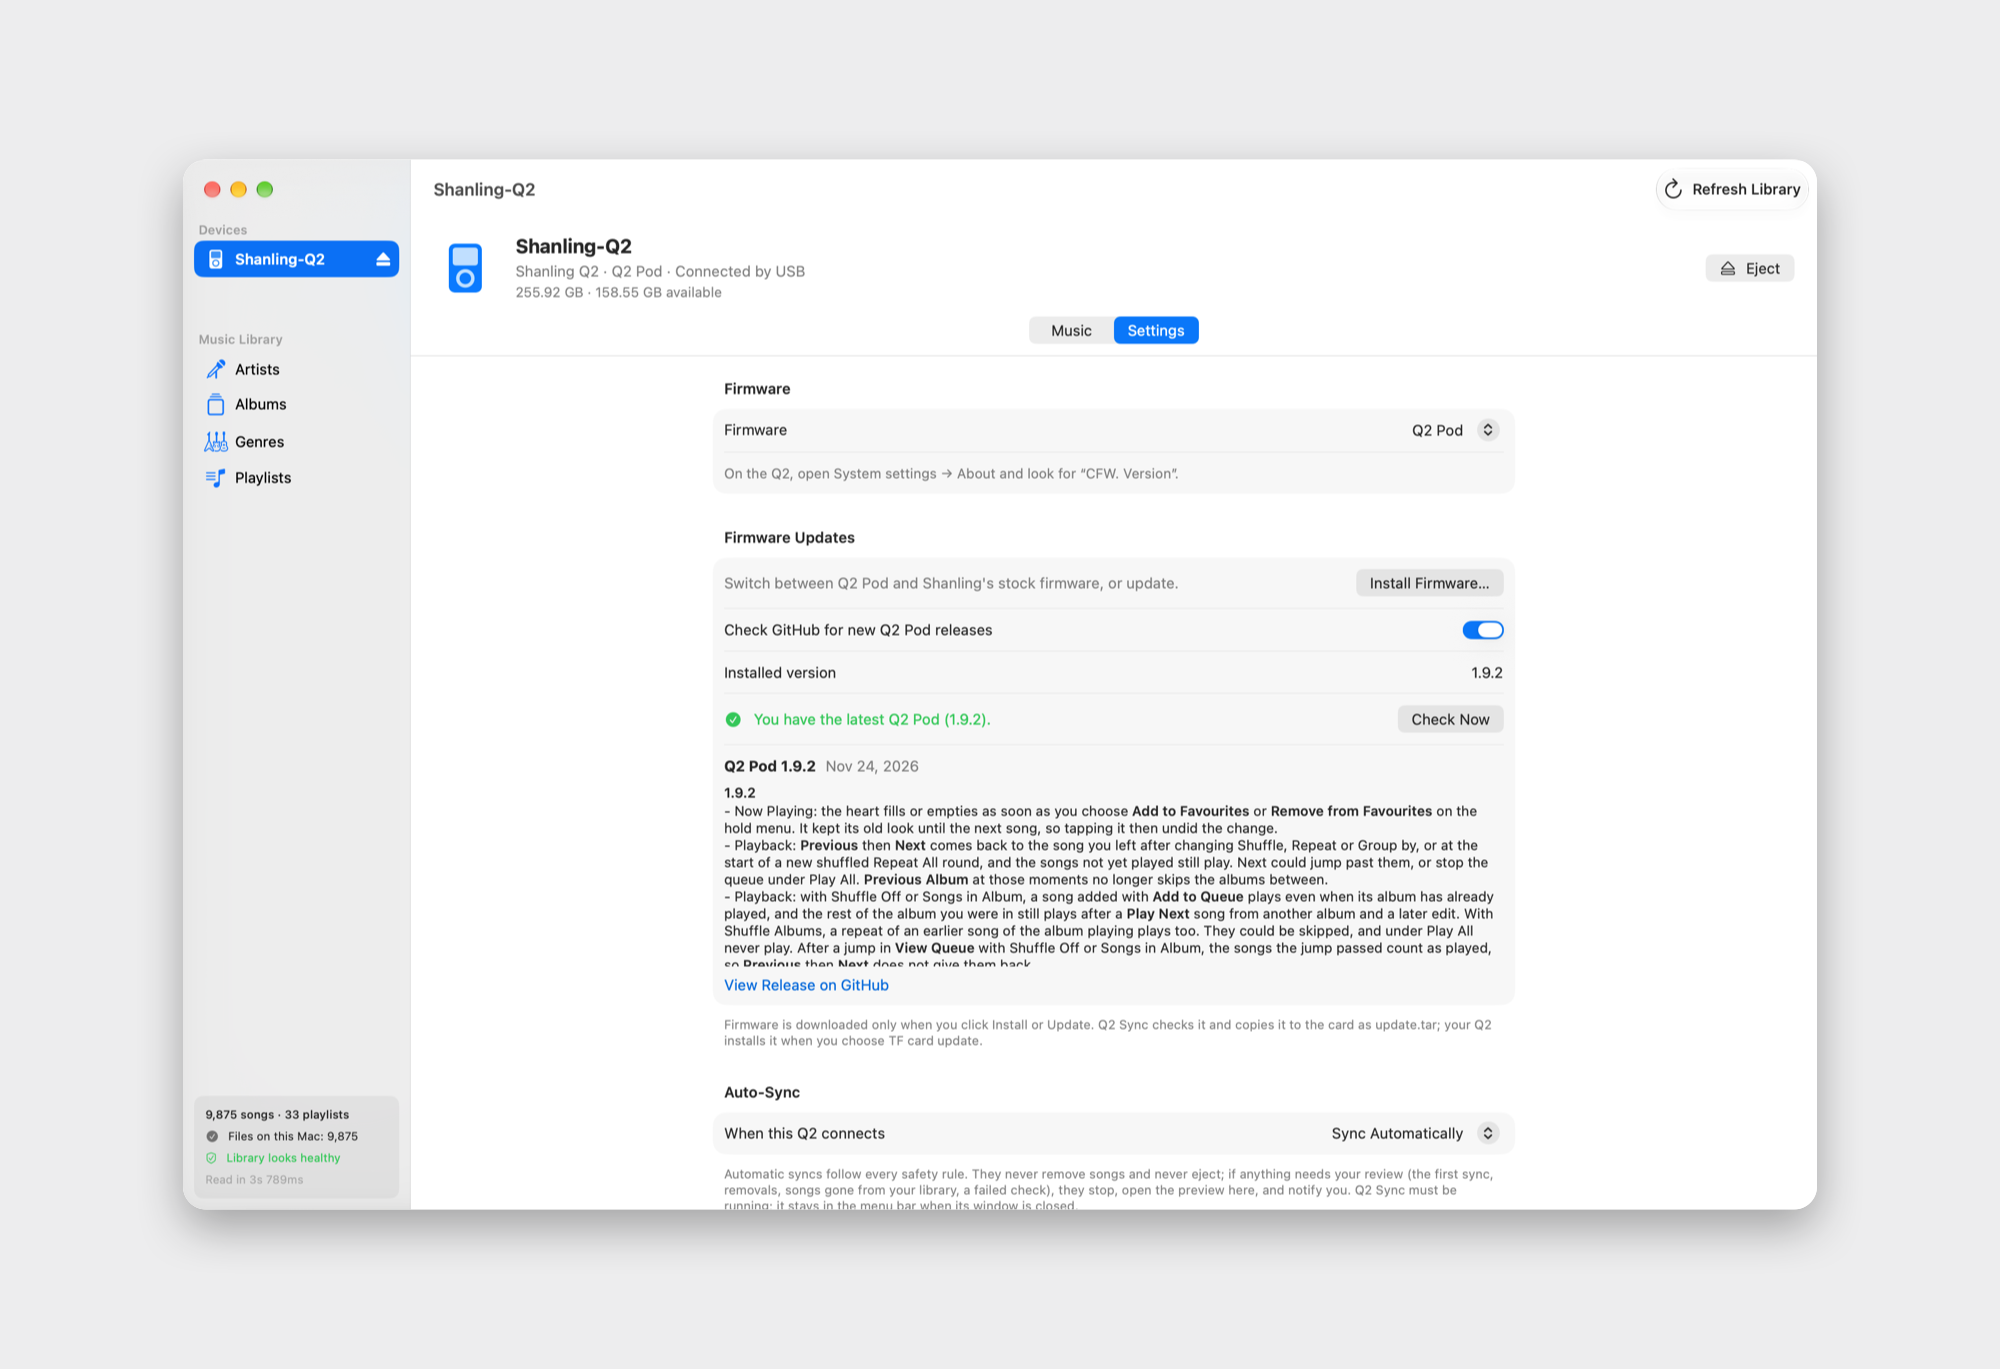
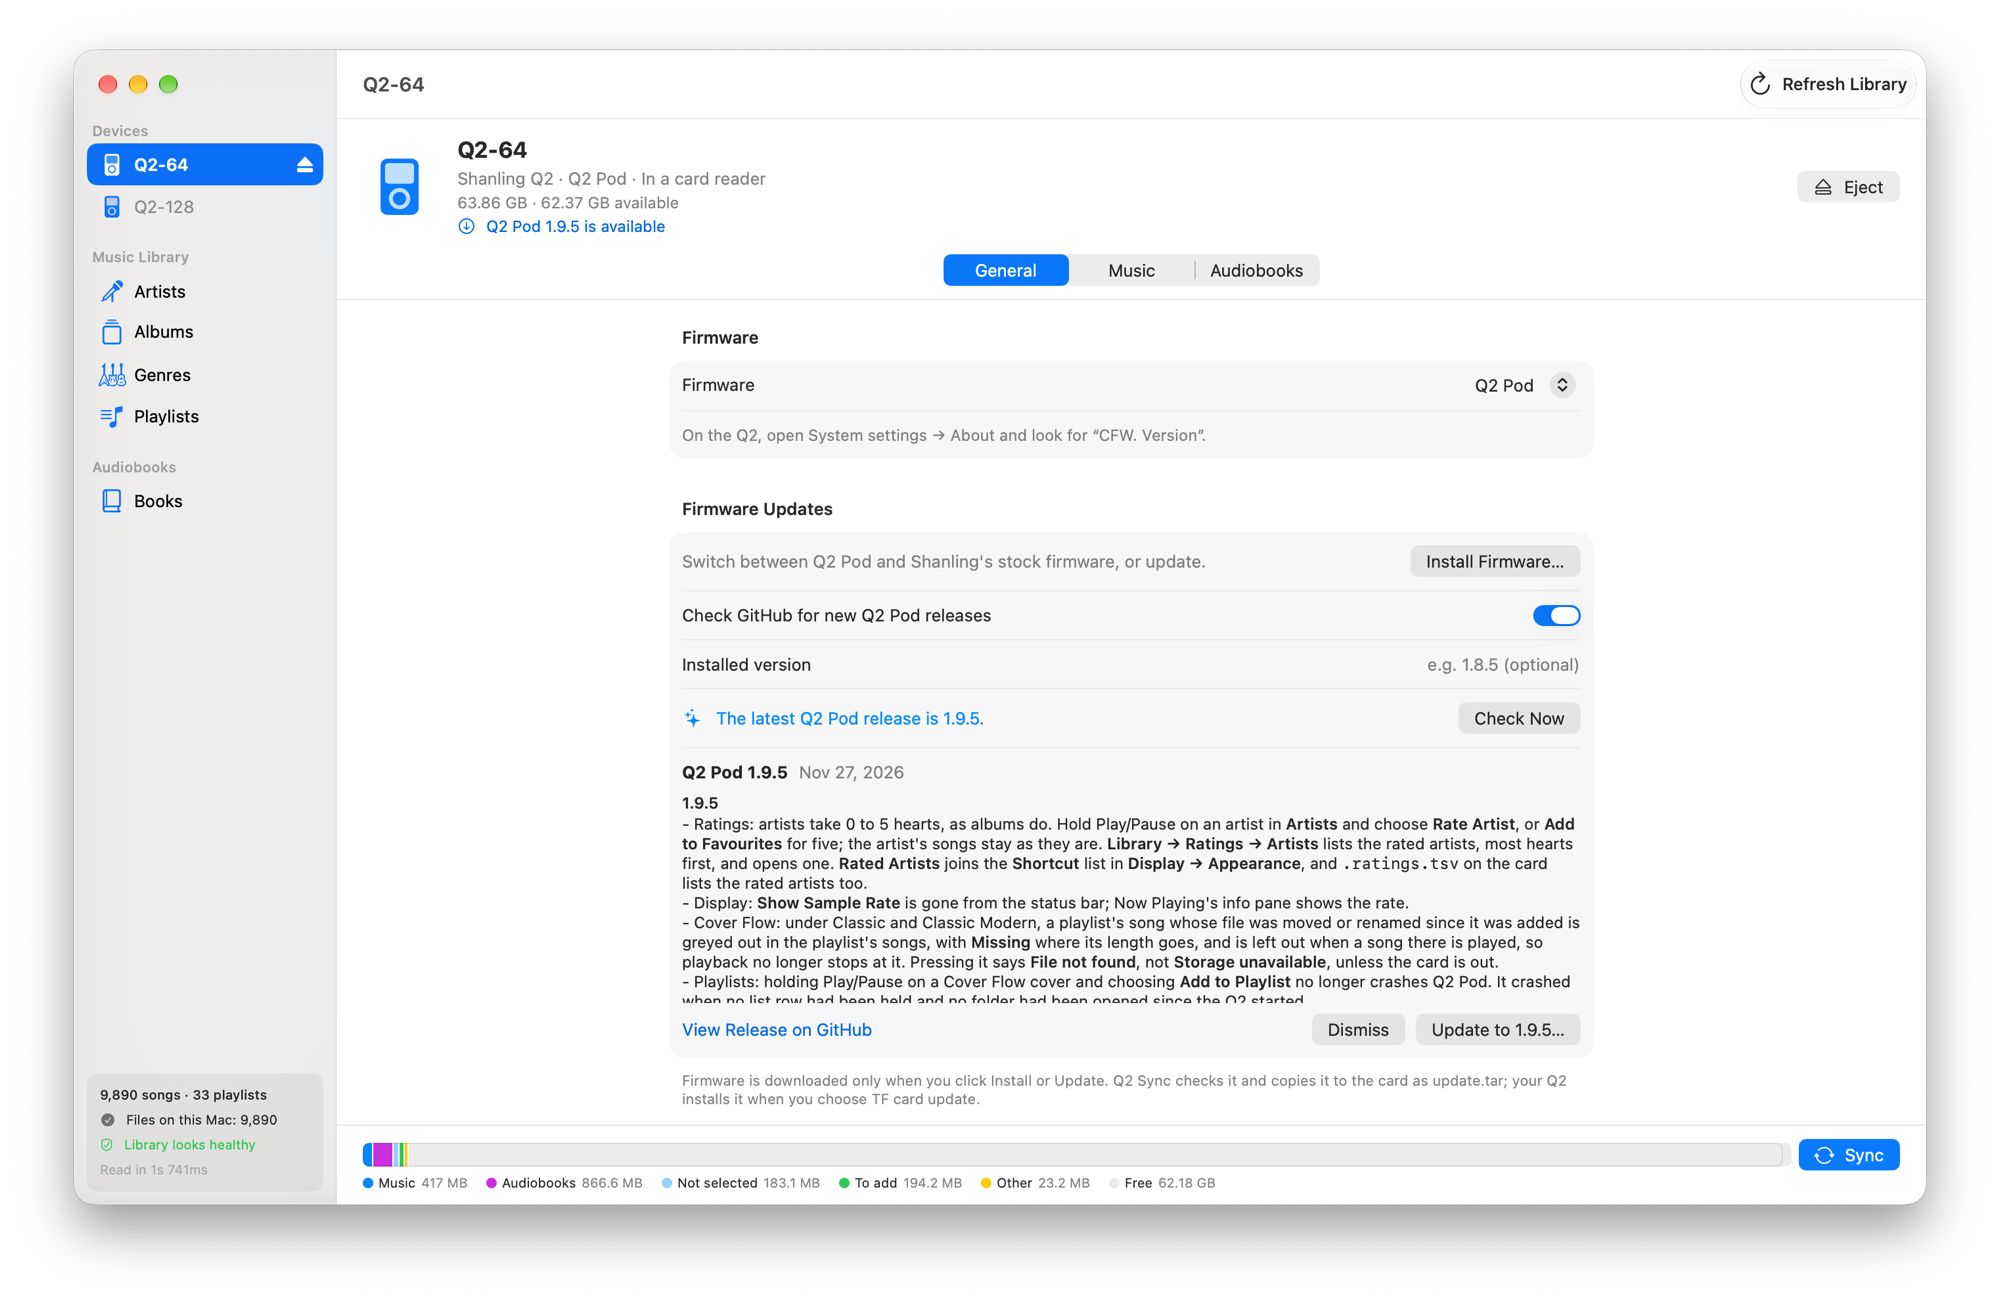
README screenshots for 0.4.0: Books browser, Audiobooks tab, new preview
New hero, Music tab (Revert/Apply), sync preview (count rows, Remove box) and General tab firmware shots; new Books browser and Audiobooks tab shots. The capacity bar shot is dropped: the bar is in the other shots. The home folder in Book Info reads /Users/you.

diff --git a/README.md b/README.md
@@ -143,13 +143,17 @@ your Mac, or delete it.
 
 <p align="center"><em>Browse your library against your Q2, with Song Info for any song</em></p>
 
+![The Books browser in the sidebar's Audiobooks section, with each book's status on the Q2 and the Book Info panel](docs/images/books-browser.png)
+
+<p align="center"><em>Browse your audiobooks, with Book Info for any book</em></p>
+
 | | |
 | --- | --- |
-| ![Choosing what to sync](docs/images/device-music.png) | ![Sync preview](docs/images/sync-preview.png) |
-| *Choose artists, albums, genres and playlists* | *Preview every change before it happens* |
-| ![Capacity bar](docs/images/capacity-bar.png) | ![Q2 Sync settings](docs/images/app-settings.png) |
-| *Finder-style capacity bar* | *Menu bar item and open at login* |
-| ![Sync Complete window with the steps to follow on the Q2](docs/images/sync-complete.png) | ![Firmware settings showing the installed Q2 Pod version and release notes](docs/images/firmware-settings.png) |
+| ![The Music tab with chosen artists, the capacity bar and Revert and Apply](docs/images/device-music.png) | ![Sync preview with Details open: counts per kind of content and the Remove Them choice](docs/images/sync-preview.png) |
+| *Choose artists, albums, genres and playlists, then Apply* | *Preview every change before it happens* |
+| ![The Audiobooks tab with selected books and protected (DRM) books marked](docs/images/device-audiobooks.png) | ![Q2 Sync settings](docs/images/app-settings.png) |
+| *Pick audiobooks from Apple Books* | *Menu bar item and open at login* |
+| ![Sync Complete window with the steps to follow on the Q2](docs/images/sync-complete.png) | ![The General tab's firmware section with the latest Q2 Pod release notes](docs/images/firmware-settings.png) |
 | *Clear next steps after every sync* | *Firmware updates and switching* |
 
 ## Safe by design
